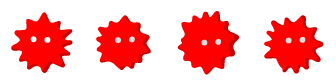
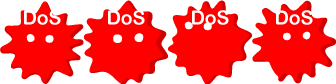
Reinicio de juego y validacion choque personaje

diff --git a/dinoGame/juego.js b/dinoGame/juego.js
@@ -12,9 +12,14 @@ if(document.readyState === "complete" || document.readyState === "interactive"){
 
 function Init() {
     time = new Date();
-    Start();
-    Loop();
+    if(inicio= true){
+        Start();
+        Loop();
+    }    
+    
 }
+
+
 
 function Loop() {
     deltaTime = (new Date() - time) / 1000;
@@ -24,6 +29,11 @@ function Loop() {
 }
 
 //****** GAME LOGIC ********//
+
+var inicio = false;
+
+var reinicio = document.querySelector(".reinicio");
+let choqueObstaculo = document.getElementById("choque-obstaculo");
 
 var sueloY = 22;
 var velY = 0;
@@ -60,6 +70,7 @@ var dino;
 var textoScore;
 var suelo;
 var gameOver;
+
 
 function Start() {
     gameOver = document.querySelector(".game-over");
@@ -145,10 +156,21 @@ function DecidirCrearNubes() {
     }
 }
 
+/**
+ * Esta funcion reinicia el juego al hacer click en el boton con la clase reinicio
+ */
+reinicio.addEventListener("click", function(){
+    location.reload();
+    return false;
+})
+
+/**
+ * Esta funcion crea un obstaculo y lo añade al array de obstaculos
+ */
 function CrearObstaculo() {
     var obstaculo = document.createElement("div");
     contenedor.appendChild(obstaculo);
-    obstaculo.classList.add("cactus");
+    obstaculo.classList.add("enemigo1");
     if(Math.random() > 0.5) obstaculo.classList.add("cactus2");
     obstaculo.posX = contenedor.clientWidth;
     obstaculo.style.left = contenedor.clientWidth+"px";
@@ -222,12 +244,32 @@ function DetectarColision() {
             break; //al estar en orden, no puede chocar con más
         }else{
             if(IsCollision(dino, obstaculos[i], 10, 30, 15, 20)) {
-                GameOver();
-            }
+                console.log(obstaculos[i].classList.value) 
+                if(obstaculos[i].classList.contains("cactus2")){
+                    choqueObstaculo.innerText = "Te topaste con un FireWall, no puedes continuar";
+                    console.log(choqueObstaculo)
+                }else{
+                    
+                    choqueObstaculo.innerText ="Te topaste con un ataque DoS, El servicio fue interrumpido.";
+                    console.log(choqueObstaculo)
+                    
+                }
+            GameOver();
+            }    
         }
     }
 }
 
+/**
+ * esta funcion detecta si hay colision entre el dinosaurio y el obstaculo
+ * @param {} a 
+ * @param {*} b 
+ * @param {*} paddingTop 
+ * @param {*} paddingRight 
+ * @param {*} paddingBottom 
+ * @param {*} paddingLeft 
+ * @returns 
+ */
 function IsCollision(a, b, paddingTop, paddingRight, paddingBottom, paddingLeft) {
     var aRect = a.getBoundingClientRect();
     var bRect = b.getBoundingClientRect();

diff --git a/dinoGame/style.css b/dinoGame/style.css
@@ -70,7 +70,7 @@ body{
     text-align: right;
 }
 
-.cactus{
+.enemigo1{
     width: 84px;
     height: 84px;
     position: absolute;
@@ -87,7 +87,13 @@ body{
     animation: AnimarVirus 0.50s steps(4) infinite
 }
 .cactus2{
-    border-radius: 20px;
+    position: absolute;
+    bottom: 22px;
+    left: 42px;
+    z-index: 2;    
+    background-size: 336px 84px;
+    background-position-x:0px ;
+
     width: 100px;
     height: 120px;
     bottom: 0px;
@@ -117,6 +123,49 @@ body{
 
     background: url(img/nube.png) no-repeat;
     background-size: 92px 26px;
+}
+
+.game-over{
+    display: none;
+
+    position: absolute;
+    width: 100%;
+    height: 100%;
+    padding-top: 75px;
+
+
+    text-align: center;
+    color: #7e928b;
+    font-size: 30px;
+    font-family: Verdana;
+    font-weight: 700;
+    background-color: rgba(19, 31, 43, .6);
+    
+    z-index: 10000;
+
+}
+
+#choque-obstaculo{
+    font-size: 12px;
+    color: #B6E326;
+    margin: 8px 0px;
+}
+
+
+.reinicio{
+    padding: 4px 16px;
+    border-radius: 16px;
+    border: 0px;
+    font-size: 20px;
+    font-weight: 800;
+    background-color:#7e928b;
+    color: #faffe9;
+}
+.reinicio:hover{
+    
+    background-color: #B6E326;
+    color: #7e928b;
+    cursor: pointer;
 }
 
 @keyframes AnimarPersonaje {

diff --git a/dinoGame/Juego.html b/dinoGame/Juego.html
@@ -1,0 +1,31 @@
+<!DOCTYPE html>
+<html lang="esp">
+<head>
+    <meta charset="UTF-8">
+    <meta name="viewport" content="width=device-width, initial-scale=1.0">
+    <title>Dino game</title>
+    <link rel="stylesheet" href="style.css">
+</head>
+<body>
+    <div class="contenedor">
+        <div class="suelo"></div>
+
+        <div class="dino dino-corriendo"></div>
+
+        <div class="score">0</div>
+        
+        <div class="game-over"> 
+            <div>GAME OVER</div>
+            <p id="choque-obstaculo">Te topaste con un FireWall, no puedes continuar</p>
+
+            <button class="reinicio">Reiniciar</button>
+            
+        </div>
+
+    </div>
+    
+
+
+    <script src="juego.js"></script>
+</body>
+</html>

diff --git a/dinoGame/index.html b/dinoGame/index.html
@@ -1,21 +1,11 @@
 <!DOCTYPE html>
-<html lang="esp">
+<html lang="en">
 <head>
     <meta charset="UTF-8">
     <meta name="viewport" content="width=device-width, initial-scale=1.0">
-    <title>Dino game</title>
-    <link rel="stylesheet" href="style.css">
+    <title>Document</title>
 </head>
 <body>
-    <div class="contenedor">
-        <div class="suelo"></div>
-
-        <div class="dino dino-corriendo"></div>
-
-        <div class="score">0</div>
-
-    </div>
-
-    <script src="juego.js"></script>
+    
 </body>
 </html>
